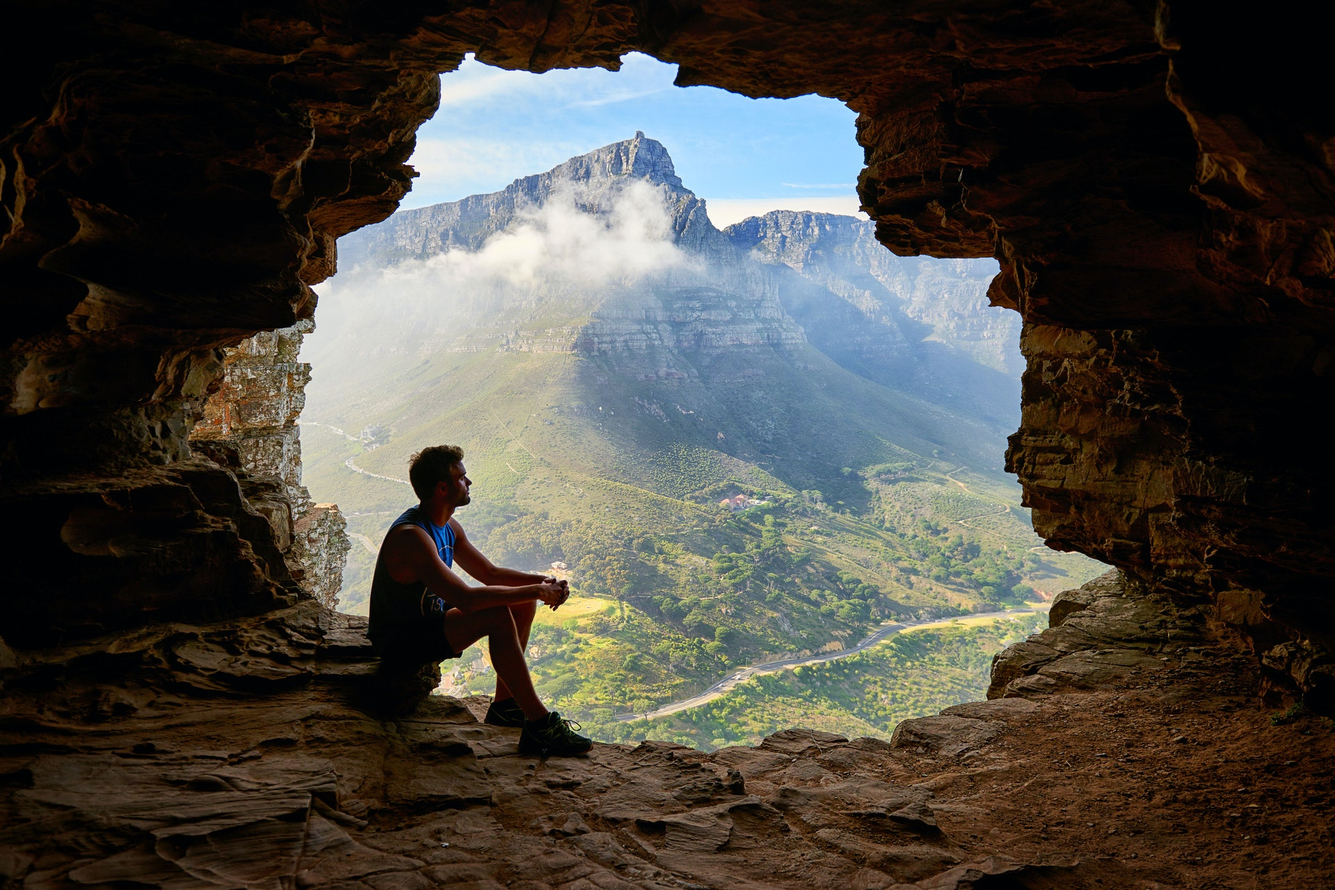
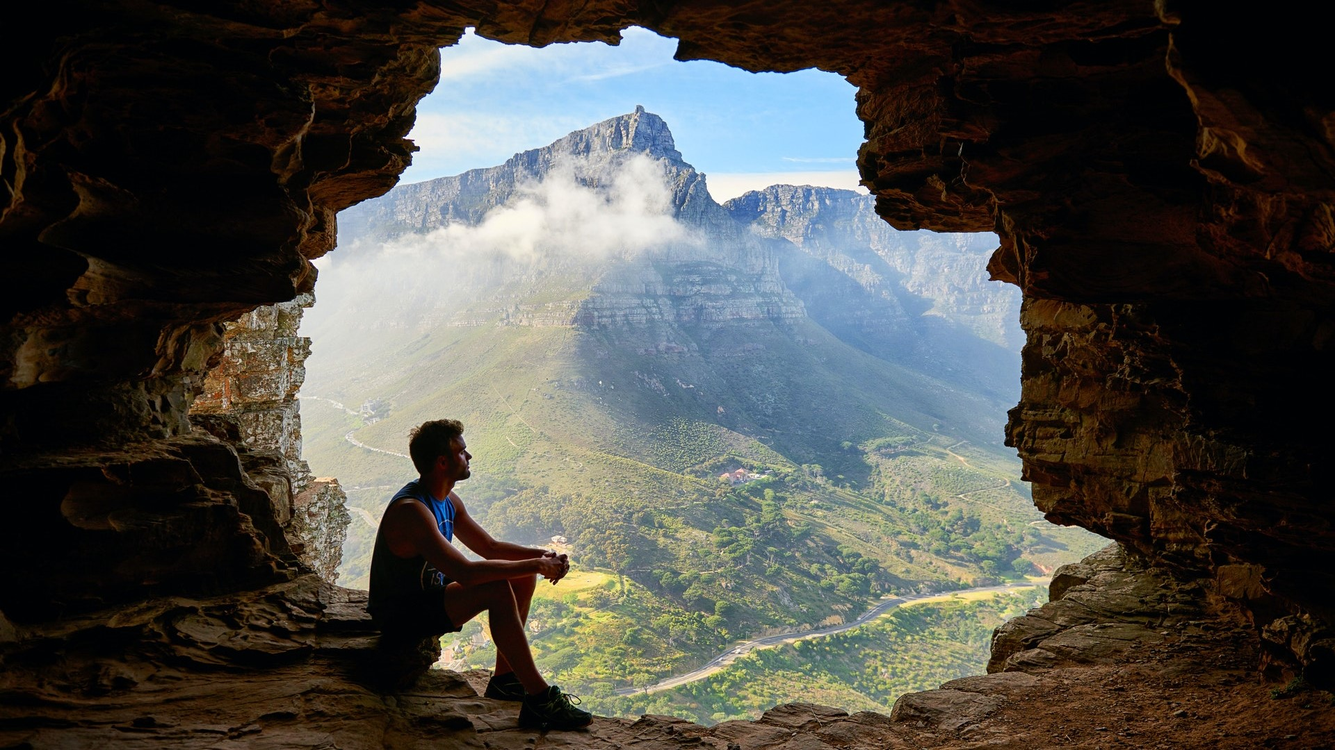
made tentative cover, the photo with margins looked better than fitting it; cover image responsive; in the future I need to properly link the CTA button to the sing up modal and make text and button adjust when resizing window

diff --git a/Better_Together_Landing_Page/style.css b/Better_Together_Landing_Page/style.css
@@ -1,7 +1,9 @@
 /* styling for body and major divs */
 body {
+    padding-top: 130px; /* pushes Hero image down so fixed nav bar doesnt ccover it*/
     margin: 0 auto;
-    font-family: sans-serif;
+    /* top:0; */
+    font-family: fantasy, sans-serif;
 }
 
 .zone {
@@ -10,8 +12,6 @@ body {
     border:1px solid #bbb;
     transition: all 0.3s linear;
 }
-
-
 
 /* nav bar */
 .main-nav {
@@ -52,11 +52,6 @@ a {
   top: 0;
   width: 100%;
 }
-
-/* .main-nav > li > img{
-    height: auto;
-    width:  100%;
-} */
 
 /*  Login/Signup Modal */
 .modal-log-bg{
@@ -126,18 +121,45 @@ a {
 }
 
 /* hero/cover image */
-.container {
-    /*show heigh: auto*/
-    height: 100vh; 
+.cover {
+    height: 90vh; 
     display: flex;
-    flex:wrap;
-    align-items: center;
-    justify-content: center;
+    justify-content:center;
+    align-items:flex-start;
+    color: #00473e;
 }
 
-.cover {
-    width: 100%;
-    height: auto;
+.container-cover{
+    height: 95vh;
+    width: 90vw;
+    margin-left: 30vw;
+    margin-right: 20vw;
+    display: flex;
+    flex:wrap;
+    flex-direction: column;
+    align-items: flex-start;
+    justify-content: flex-start;
+}  
+
+.cover-image{
+    background-image: url(./img/hero_image.jpg); 
+    background-repeat:no-repeat;
+    background-size:contain;
+    background-position:center;
+    
+}
+
+#catchline{
+    margin-top: 25vh;
+    margin-bottom: 0;
+    font-size: 16px;
+   
+}
+#headline{
+    margin-top:0;
+    margin-bottom: 1vh;
+    font-size:4.8em;
+    justify-self: self-start;
 }
 
 /* attempts at responsiveness */
@@ -177,6 +199,36 @@ a {
     }
 }
 
+/* possible structure  for  Also min-with 414* maybe 1280 also*/
+/* @media only screen and (max-width: 1024px) {
+    .main-nav {
+        font-size: 0.6em;
+        padding: 0;
+    }
+    
+    .main-nav > li > a> img{
+            height: auto;
+            width:  75%;
+    }
+
+}
+@media only screen and (max-width: 768px) {
+    .main-nav {
+        font-size: 0.5em;
+        padding: 0;
+    }
+    
+    .main-nav > li > a> img{
+            height: auto;
+            width:  65%;
+    }
+
+} */
+
+.end{
+    align-self: flex-end;
+}
+
 /* styling */
 .offwhite {
     background: #f2f7f5; /* Old browsers */
@@ -205,3 +257,11 @@ a {
     padding: .5em 1.5em;
 }
 
+#cta-big-btn{
+    font-size: 2em;
+    border-radius: 25px;
+    padding: 1em 3em;
+    margin-right: 25vh;
+    margin-left: 25vh;
+    margin-bottom: 70vh;
+}

diff --git a/Better_Together_Landing_Page/index.html b/Better_Together_Landing_Page/index.html
@@ -4,7 +4,8 @@
   <title>Better Together</title>
   <link rel="stylesheet" type="text/css" href="./style.css">
 </head>
-<body>
+<body class="offwhite" >
+  
   <nav class="zone offwhite sticky">
       <ul class="main-nav">
           <li> <a href="#hero"> <img src="./img/logo_nav.png" alt=""></li>
@@ -17,7 +18,16 @@
           <li><button class="pop-btn modal-sign-btn"> Sign Up</button></li>
       </ul>
   </nav>
-  <div class="container"><img class="cover fullscreen" src="./img/hero_image.jpg"></div>
+  <div class=" cover cover-image">
+    <section class="container-cover">
+      <H3 id=catchline>BE BETTER FOR THE PEOPLE WHO MATTER</H3>
+      <H1 id="headline">Our Journey Begins Today!</H1>
+      <button id=cta-big-btn class="pop-btn modal-sign-btn end"> Lets Get Started</button>
+      <!-- <img class="cover fullscreen" src="./img/hero_image.jpg"> -->
+    </section>
+  </div>
+
+
   <div class="modal-sign-bg">
     <div class="modal">
       <h2>Sign Up For Better Together!</h2>
